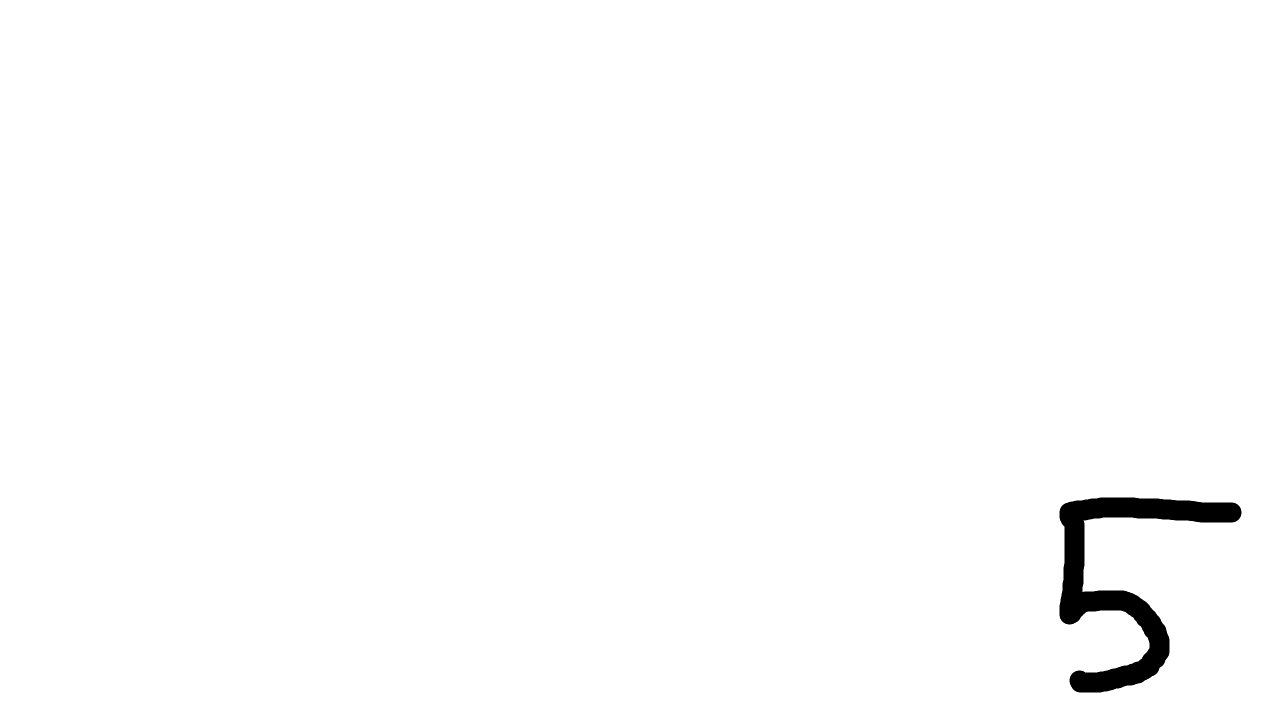
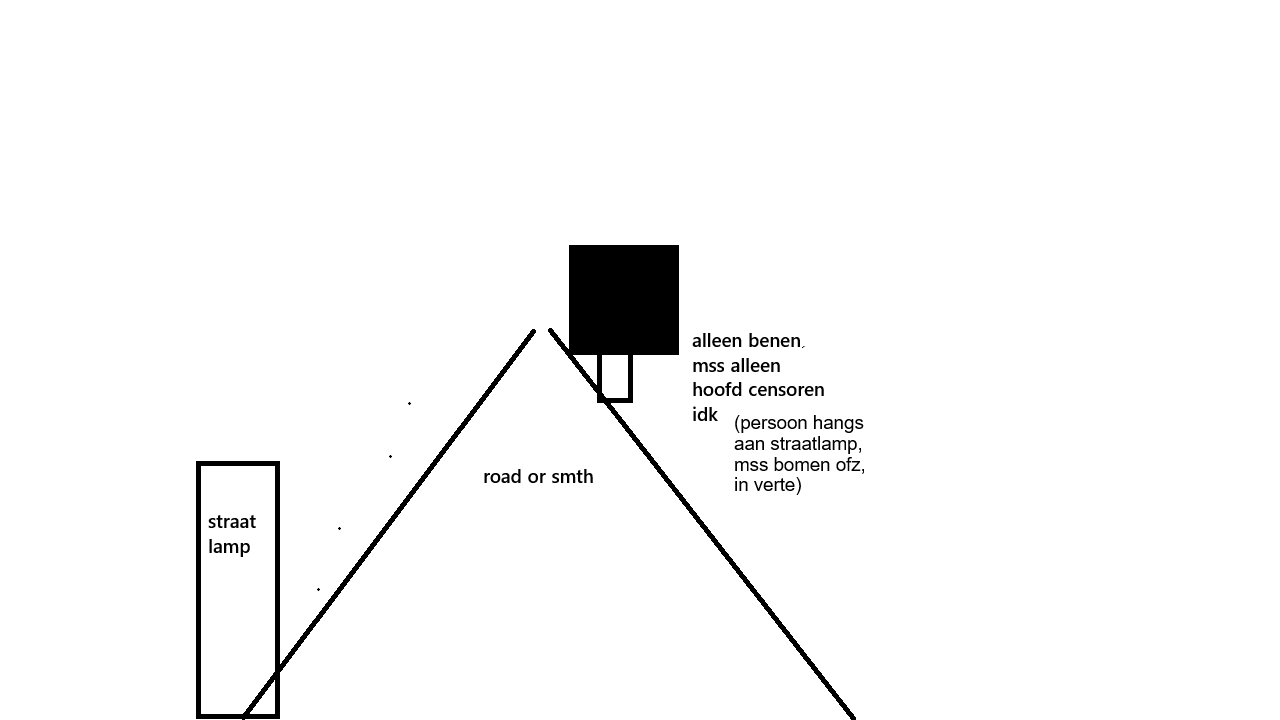
i can hear the messages

diff --git a/ui/menu/saymyname.py b/ui/menu/saymyname.py
@@ -257,7 +257,7 @@ class NameScreen:
             elif name in ("A", "AAAAAAA", "HUMAN", "PERSON"):
                 self.text_engine.start_text('Not very creative,^wait500 are you?')
 
-            elif name in ("TIGO", "JORIS", "QUINTEN", "CARPET", "JOSIAH", "EVERAN", "AMY"):
+            elif name in ("TIGO", "JORIS", "QUINTEN", "CARPET", "JOSIAH", "EVERAN", "AMY", "ETHAN"):
                 self.text_engine.start_text('Ah yes, ^wait250my creators')
 
             else:
@@ -349,8 +349,10 @@ class NameScreen:
         return False
 
     # --------------------------------------------------
-
+    
     def draw_alfabet(self):
+        padding = 8  # space between glyph edge and cursor box
+    
         # draw letters
         for idx, letter in enumerate(self.alfabet):
             x = idx % self.grid_cols
@@ -359,45 +361,47 @@ class NameScreen:
             pos_y = self.start_y + y * self.cell_size
             text = self.font.render(letter, False, (255, 255, 255))
             self.screen.blit(text, (pos_x, pos_y))
-
+    
         # draw buttons
         for i, btn in enumerate(self.buttons):
             pos_x = self.start_x + i * self.cell_size + (200 * i)  # keep offset
             pos_y = self.start_y + self.button_row * self.cell_size
             text = self.font.render(btn, False, (255, 255, 255))
             self.screen.blit(text, (pos_x, pos_y))
-
+    
         # draw typed letters
         for i, letter in enumerate(self.selected_letters):
             pos_x = 200 + i * self.cell_size
             pos_y = 150
             text = self.font.render(letter, False, (255, 255, 255))
             self.screen.blit(text, (pos_x, pos_y))
-
+    
         # draw underscore placeholders
         for i in range(len(self.selected_letters), self.max_letters):
             pos_x = 200 + i * self.cell_size
             pos_y = 150
             text = self.font.render("_", False, (255, 255, 255))
             self.screen.blit(text, (pos_x, pos_y))
-
-        # --- draw cursor ---
+    
+        # --- draw cursor (sized to wrap around whatever label it's on) ---
         if self.cursor_y == self.button_row:
-            # buttons row: apply same offset as the button text
-            cursor_x_pos = self.start_x + self.cursor_x * self.cell_size + (200 * self.cursor_x)
-            cursor_y_pos = self.start_y + self.cursor_y * self.cell_size
+            # over a button
+            label = self.buttons[self.cursor_x]
+            pos_x = self.start_x + self.cursor_x * self.cell_size + (200 * self.cursor_x)
+            pos_y = self.start_y + self.cursor_y * self.cell_size
         else:
-            cursor_x_pos = self.start_x + self.cursor_x * self.cell_size
-            cursor_y_pos = self.start_y + self.cursor_y * self.cell_size
-
-        cursor = pygame.Rect(
-            cursor_x_pos,
-            cursor_y_pos,
-            35,
-            35
-        )
+            # over a letter
+            label = self.alfabet[self.cursor_y * self.grid_cols + self.cursor_x]
+            pos_x = self.start_x + self.cursor_x * self.cell_size
+            pos_y = self.start_y + self.cursor_y * self.cell_size
+    
+        text_w, text_h = self.font.size(label)
+        center_x = pos_x + text_w / 2 - 3
+        center_y = pos_y + text_h / 2 + 2
+    
+        cursor = pygame.Rect(0, 0, text_w + padding, text_h + padding)
+        cursor.center = (center_x, center_y)
         pygame.draw.rect(self.screen, (255, 0, 0), cursor, 3)
-
     # --------------------------------------------------
 
     def update_cursor(self, dt):

diff --git a/worlds/world_loader.py b/worlds/world_loader.py
@@ -145,7 +145,7 @@ class World_loader:
         self.light_sources = []
         self.current_light_source = 1
 
-        self._player_light_radius = 100
+        self._player_light_radius = 20 #100 if norm
 
         self._light_mask_cache = {}
 
@@ -222,7 +222,7 @@ class World_loader:
         self.load_enemies()
 
         self.shadow_platform_editor_open = False
-
+        
         level_key = f"level_{getattr(self, 'current_level', self.current_level or 0)}"
         self.triggers = self.player.level_spec.get(level_key, {}).get("triggers", [])
         print(self.triggers)

diff --git a/cutscenes/Wake.py b/cutscenes/Wake.py
@@ -112,7 +112,9 @@ class cutscene:
 
                 print(self.hand_y)
 
-                self.hand_y = -1449 + -pytweening.easeInSine(self.vol_timer * 2) * 580 # -999999999 if dissapear NIG-
+                self.hand_y = -1449 + -pytweening.easeInSine((self.vol_timer) * 2) * 580 # -999999999 if frame1 dissa
+
+                #Somehow make this go earlier without freezing hand <- TODO
                 self.world._player_light_radius = 20 + pytweening.easeInCirc(self.vol_timer) * 120
     
                 self.vol_timer += 0.7 * self.dt 

diff --git a/ui/textengine/textengine.py b/ui/textengine/textengine.py
@@ -3,7 +3,6 @@ import re
 import random
 import math
 import json
-import locale
 
 import pygame
 from googletrans import Translator
@@ -70,8 +69,6 @@ class TextEngine:
 
         # Image support
         self.image_cache = {}
-
-        print(locale.getdefaultlocale())
 
     # -----------------------------
     # Parse tags

diff --git a/cutscenes/parent_yell.py b/cutscenes/parent_yell.py
@@ -46,7 +46,7 @@ class cutscene:
             print(img)
             self.goreimgs.append(img)
 
-        self.total_frames_per_gore = 60
+        self.total_frames_per_gore = 2
 
         self.frame_counter = 0
 

diff --git a/main.py b/main.py
@@ -308,6 +308,7 @@ def init_pygame(options):
     os.environ["SDL_VIDEO_X11_FORCE_EGL"] = "0"
 
     pygame.init()
+    pygame.mixer.init()
 
     try:
         pygame.mixer.init()
